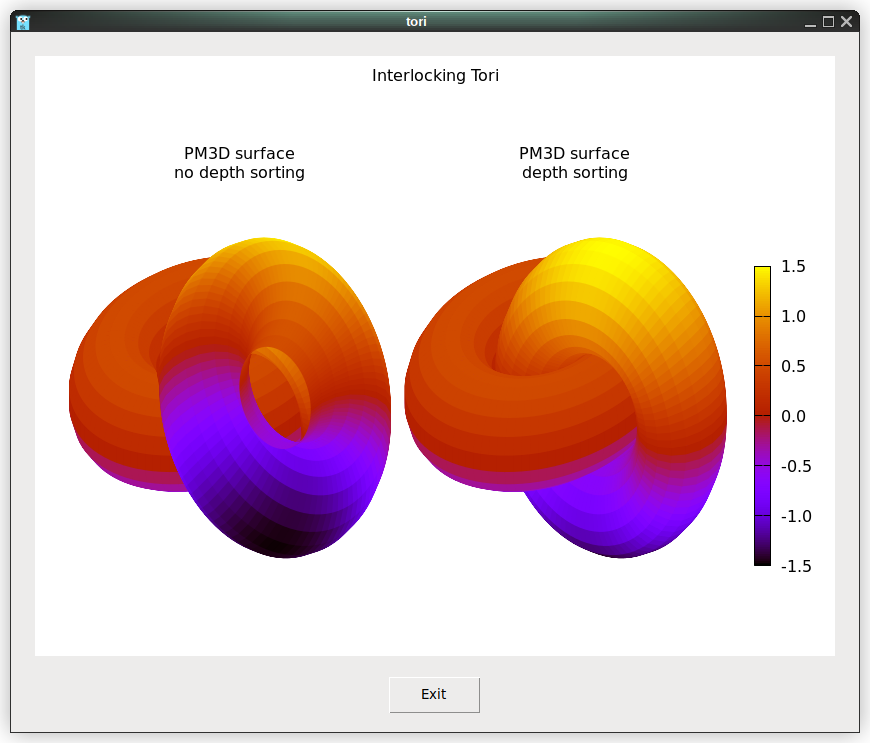
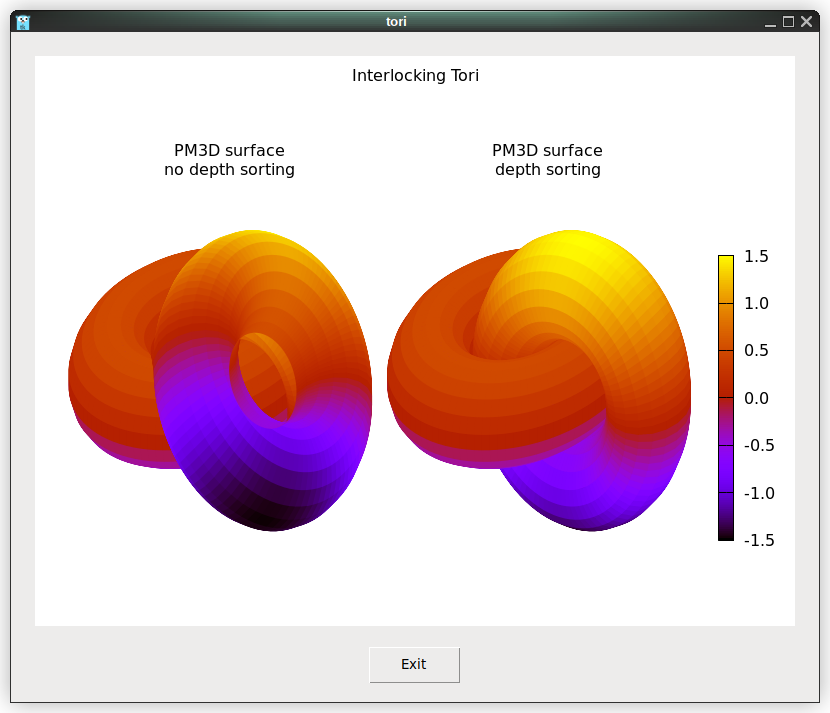
graph examples: use display units instead of pixels

diff --git a/_examples/tori_canvas.go b/_examples/tori_canvas.go
@@ -25,12 +25,13 @@ set cbrange [ * : * ] noreverse writeback
 set rrange [ * : * ] noreverse writeback
 set colorbox vertical origin screen 0.9, 0.2 size screen 0.05, 0.6 front  noinvert bdefault
 NO_ANIMATION = 1
-splot cos(u)+.5*cos(u)*cos(v),sin(u)+.5*sin(u)*cos(v),.5*sin(v) with lines,1+cos(u)+.5*cos(u)*cos(v),.5*sin(v),sin(u)+.5*sin(u)*cos(v) with lines
-`
+splot cos(u)+.5*cos(u)*cos(v),sin(u)+.5*sin(u)*cos(v),.5*sin(v) with lines,1+cos(u)+.5*cos(u)*cos(v),.5*sin(v),sin(u)+.5*sin(u)*cos(v) with lines`
+
+var cm = int(TkScaling()*72/2.54+0.5)
 
 func main() {
 	Pack(
-		Canvas(Width(800), Height(600), Background(White)).Graph(script),
+		Canvas(Width(20*cm), Height(15*cm), Background(White)).Graph(script),
 		TExit(), Padx("1m"), Pady("2m"), Ipadx("1m"), Ipady("1m"),
 	)
 	App.Center().Wait()

diff --git a/_examples/tori.go b/_examples/tori.go
@@ -28,12 +28,13 @@ set colorbox vertical user origin 0.9, 0.15 size 0.02, 0.50
 set format cb "%.1f"
 set pm3d depthorder
 splot cos(u)+.5*cos(u)*cos(v),sin(u)+.5*sin(u)*cos(v),.5*sin(v) with pm3d,1+cos(u)+.5*cos(u)*cos(v),.5*sin(v),sin(u)+.5*sin(u)*cos(v) with pm3d
-unset multiplot
-`
+unset multiplot`
+
+var cm = int(TkScaling()*72/2.54+0.5)
 
 func main() {
 	Pack(
-		Label(Image(NewPhoto(Width(800), Height(600)).Graph(script))),
+		Label(Image(NewPhoto(Width(20*cm), Height(15*cm)).Graph(script))),
 		TExit(), Padx("1m"), Pady("2m"), Ipadx("1m"), Ipady("1m"),
 	)
 	App.Center().Wait()

diff --git a/_examples/splot.go b/_examples/splot.go
@@ -2,9 +2,11 @@ package main
 
 import . "modernc.org/tk9.0"
 
+var cm = int(TkScaling()*72/2.54+0.5)
+
 func main() {
 	Pack(
-		Label(Image(NewPhoto(Width(800), Height(600)).Graph("set grid; splot x**2+y**2, x**2-y**2"))),
+		Label(Image(NewPhoto(Width(20*cm), Height(15*cm)).Graph("set grid; splot x**2+y**2, x**2-y**2"))),
 		TExit(), Padx("1m"), Pady("2m"), Ipadx("1m"), Ipady("1m"),
 	)
 	App.Center().Wait()

diff --git a/README.md b/README.md
@@ -239,13 +239,15 @@ Surface plot (_examples/splot.go). This example requires Gnuplot 5.4+ installati
      2	
      3	import . "modernc.org/tk9.0"
      4	
-     5	func main() {
-     6		Pack(
-     7			Label(Image(NewPhoto(Width(800), Height(600)).Graph("set grid; splot x**2+y**2, x**2-y**2"))),
-     8			TExit(), Padx("1m"), Pady("2m"), Ipadx("1m"), Ipady("1m"),
-     9		)
-    10		App.Center().Wait()
-    11	}
+     5	var cm = int(TkScaling()*72/2.54+0.5)
+     6	
+     7	func main() {
+     8		Pack(
+     9			Label(Image(NewPhoto(Width(20*cm), Height(15*cm)).Graph("set grid; splot x**2+y**2, x**2-y**2"))),
+    10			TExit(), Padx("1m"), Pady("2m"), Ipadx("1m"), Ipady("1m"),
+    11		)
+    12		App.Center().Wait()
+    13	}
 
 ![tori](_examples/tori.png "interlocked tori")
 
@@ -281,16 +283,17 @@ Interlocked tori plot (_examples/tori.go). This example requires Gnuplot 5.4+ in
     28	set format cb "%.1f"
     29	set pm3d depthorder
     30	splot cos(u)+.5*cos(u)*cos(v),sin(u)+.5*sin(u)*cos(v),.5*sin(v) with pm3d,1+cos(u)+.5*cos(u)*cos(v),.5*sin(v),sin(u)+.5*sin(u)*cos(v) with pm3d
-    31	unset multiplot
-    32	`
-    33	
-    34	func main() {
-    35		Pack(
-    36			Label(Image(NewPhoto(Width(800), Height(600)).Graph(script))),
-    37			TExit(), Padx("1m"), Pady("2m"), Ipadx("1m"), Ipady("1m"),
-    38		)
-    39		App.Center().Wait()
-    40	}
+    31	unset multiplot`
+    32	
+    33	var cm = int(TkScaling()*72/2.54+0.5)
+    34	
+    35	func main() {
+    36		Pack(
+    37			Label(Image(NewPhoto(Width(20*cm), Height(15*cm)).Graph(script))),
+    38			TExit(), Padx("1m"), Pady("2m"), Ipadx("1m"), Ipady("1m"),
+    39		)
+    40		App.Center().Wait()
+    41	}
 
 ![tori-canvas](_examples/tori_canvas.png "interlocked tori on canvas")
 
@@ -323,16 +326,17 @@ Interlocked tori plot on canvas (_examples/tori_canvas.go). This example require
     25	set rrange [ * : * ] noreverse writeback
     26	set colorbox vertical origin screen 0.9, 0.2 size screen 0.05, 0.6 front  noinvert bdefault
     27	NO_ANIMATION = 1
-    28	splot cos(u)+.5*cos(u)*cos(v),sin(u)+.5*sin(u)*cos(v),.5*sin(v) with lines,1+cos(u)+.5*cos(u)*cos(v),.5*sin(v),sin(u)+.5*sin(u)*cos(v) with lines
-    29	`
-    30	
-    31	func main() {
-    32		Pack(
-    33			Canvas(Width(800), Height(600), Background(White)).Graph(script),
-    34			TExit(), Padx("1m"), Pady("2m"), Ipadx("1m"), Ipady("1m"),
-    35		)
-    36		App.Center().Wait()
-    37	}
+    28	splot cos(u)+.5*cos(u)*cos(v),sin(u)+.5*sin(u)*cos(v),.5*sin(v) with lines,1+cos(u)+.5*cos(u)*cos(v),.5*sin(v),sin(u)+.5*sin(u)*cos(v) with lines`
+    29	
+    30	var cm = int(TkScaling()*72/2.54+0.5)
+    31	
+    32	func main() {
+    33		Pack(
+    34			Canvas(Width(20*cm), Height(15*cm), Background(White)).Graph(script),
+    35			TExit(), Padx("1m"), Pady("2m"), Ipadx("1m"), Ipady("1m"),
+    36		)
+    37		App.Center().Wait()
+    38	}
 
 ![tex](_examples/tex.png "TeX")
 
